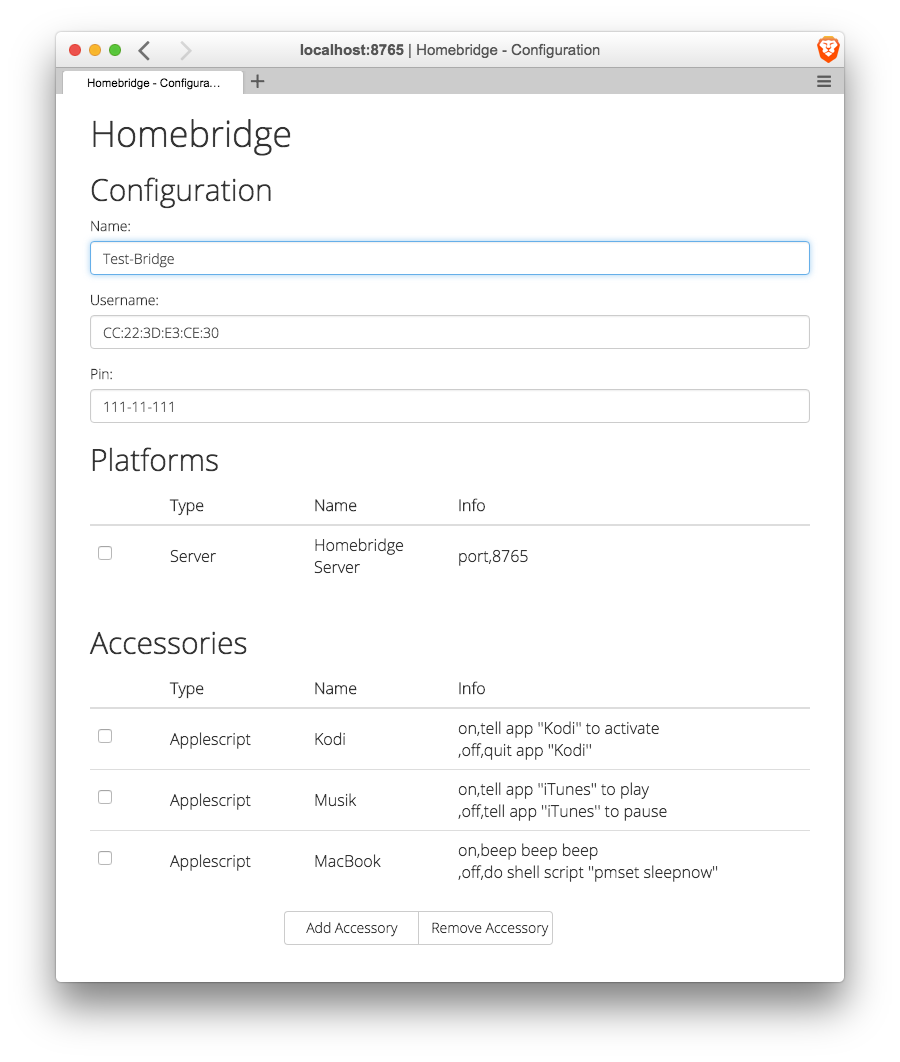
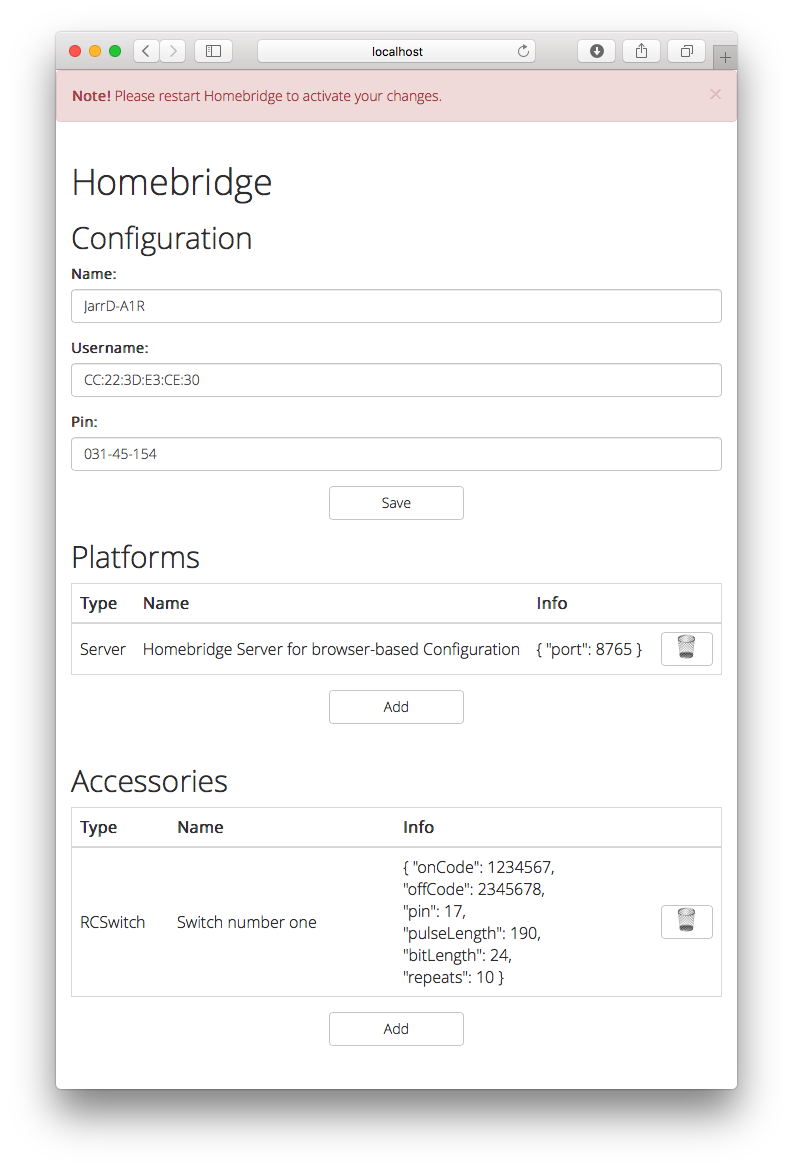
Added ability to add accessories and platforms, Fixes #1

diff --git a/index.js b/index.js
@@ -15,10 +15,10 @@ function Server(log, config) {
     var http = require('http');
 
     // ... extract the platforms JSON-object and instantiate string value ...
-    var platformsJSON = "";
+    var platformsJSON = {};
     var platforms = "";
     // ... extract the accessories JSON-object and instantiate string value...
-    var accessoriesJSON = "";
+    var accessoriesJSON = {};
     var accessories = "";
 
     // Prepare cosmetics for the site
@@ -26,23 +26,22 @@ function Server(log, config) {
     // - fontface with Apple-like Open Sans
     // - general header with responsive design
     // - JS with Twitter bootstrap
-    var bootstrap = "<link rel='stylesheet' href='//maxcdn.bootstrapcdn.com/bootstrap/latest/css/bootstrap.min.css'>";
+    var bootstrap = "<link rel='stylesheet' href='//maxcdn.bootstrapcdn.com/bootstrap/latest/css/bootstrap.min.css'>"
+    /* + "<link href='//cdnjs.cloudflare.com/ajax/libs/x-editable/1.5.0/bootstrap3-editable/css/bootstrap-editable.css' rel='stylesheet'/>"*/;
     var font = "<link href='https://fonts.googleapis.com/css?family=Open+Sans:300' rel='stylesheet' type='text/css'>";
     var style = "<style>h1, h2, h3, h4, h5, h6 {font-family: 'Open Sans', sans-serif;}p, div {font-family: 'Open Sans', sans-serif;} input[type='radio'], input[type='checkbox'] {line-height: normal; margin: 0;}</style>"
     var header = "<html><meta name='viewport' content='width=device-width, initial-scale=1, maximum-scale=1, user-scalable=no'><head><title>Homebridge - Configuration</title>" + bootstrap + font + style + "</head>";
-    var footer = "<script defer='defer' src='//maxcdn.bootstrapcdn.com/bootstrap/latest/js/bootstrap.min.js'></script></body></html>";
+    var footer = "<script defer='defer' src='//maxcdn.bootstrapcdn.com/bootstrap/latest/js/bootstrap.min.js'></script></body></html>"
+    /* + "<script src='//cdnjs.cloudflare.com/ajax/libs/x-editable/1.5.0/bootstrap3-editable/js/bootstrap-editable.min.js'></script>"
+     + "<script> $(document).ready(function() { $.fn.editable.defaults.mode = 'popup';  $('#username').editable(); }); </script>"*/;
 
-    // Prepare the html-markup as string for the presented tables
-    // - tables are responsive and glow when hovered
-    // - present Type, Name and additional Info
-    // - content is added later by concatenating table1 + 'content' + table2
     var table1 = (function() {/* 
             <div class="table-responsive"> 
               <table class="table table-hover">
                 <thead>
                   <tr>
-                    <th width='10%'>Type</th>
-                    <th width='40%'>Name</th>
+                    <th width='15%'>Type</th>
+                    <th width='35%'>Name</th>
                     <th width='40%'>Info</th>
                     <th width='10%'></th>
                   </tr>
@@ -79,7 +78,7 @@ function Server(log, config) {
                 if (req.method == 'POST') {
 
                     req.on('data', function(chunk) {
-                        receivedData = chunk.toString();
+                        var receivedData = chunk.toString();
                         console.log("[Homebridge-Server] received body data: " + receivedData);
                         var arr = receivedData.split("&");
                         configJSON.bridge.name = arr[0].replace('bridgeName=','');
@@ -96,14 +95,44 @@ function Server(log, config) {
 
                 break;
             case '/addPlatform':
-                printAddPlatformPage(res);
+                printAddPage(res, "Platform");
                 break;
             case '/addAccessory':
-                printAddAccessoryPage(res);
+                printAddPage(res, "Accessory");
                 break;
             case '/savePlatformSettings':
+                if (req.method == 'POST') {
+                    req.on('data', function(chunk) {
+                        var receivedData = decypherText(chunk).replace('PlatformToAdd=','');
+                            configJSON.platforms.push(JSON.parse(receivedData));
+                            if(configJSON.platforms.length == 1) {
+                                configJSON.platforms = JSON.parse(JSON.stringify(configJSON.platforms).replace('[,','['));
+                            }
+                            saveConfig(res);
+                            console.log("[Homebridge-Server] Saved platform " + JSON.parse(receivedData).name + ".");
+                    });
+                    req.on('end', function(chunk) { });
+
+                } else {
+                    console.log("[Homebridge-Server] [405] " + req.method + " to " + req.url);
+                }
                 break;
             case '/saveAccessorySettings':
+                if (req.method == 'POST') {
+                    req.on('data', function(chunk) {
+                        var receivedData = decypherText(chunk).replace('AccessoryToAdd=','');
+                            configJSON.accessories.push(JSON.parse(receivedData));
+                            if(configJSON.accessories.length == 1) {
+                                configJSON.accessories = JSON.parse(JSON.stringify(configJSON.accessories).replace('[,','['));
+                            }
+                            saveConfig(res);
+                            console.log("[Homebridge-Server] Saved accessory " + JSON.parse(receivedData).name + ".");
+                    });
+                    req.on('end', function(chunk) { });
+
+                } else {
+                    console.log("[Homebridge-Server] [405] " + req.method + " to " + req.url);
+                }
                 break;
             default:
                 url = req.url;
@@ -112,109 +141,111 @@ function Server(log, config) {
                     if (object.indexOf('Platform') !== -1) {
                         platform = object.replace('Platform', '');
                         delete configJSON.platforms[platform];
-                        platformsJSON = configJSON.platforms;
+                        console.log("[Homebridge-Server] Removed platform " + platform + ".");
                     } else if (object.indexOf('Accessory') !== -1) {
                         accessory = object.replace('Accessory', '');
                         delete configJSON.accessories[accessory];
-                        accessoriesJSON = configJSON.accessories;
+                        console.log("[Homebridge-Server] Removed accessory " + accessory + ".");
                     }
                     saveConfig(res);
-                    console.log("[Homebridge-Server] Saved platform and accessory settings.");
                 }
         };
     }
 
-    function prepareConfig() {
-        // Prepare the platforms for html-markup
-        // - introduces html-table-cell
-        // - adds the info from platform JSON-object
-        // - strips the JSON-identifiers
-        // - adds a checkbox as first table-cell to enable row-selection
-        platformsJSON = configJSON.platforms;
-        platforms = "";
-        for (var id_platform in platformsJSON) {
-            var platform = platformsJSON[id_platform];
-            platforms = platforms + "<tr><td style='vertical-align:middle;'>";
-            platforms = platforms + platform.platform + "</td><td style='vertical-align:middle;'>";
-            platforms = platforms + platform.name + "</td><td style='vertical-align:middle;'>";
-            // FIXME
-            var tempArray = [];
-            for (var element_platform in platform) {
-                tempArray.push(element_platform);
-                tempArray.push(platform[element_platform] + '<br>');
-            }
-            tempArray.splice(tempArray.indexOf('name'), 2);
-            tempArray.splice(tempArray.indexOf('platform'), 2);
-            platforms = platforms + tempArray + "</td>";
-            platforms = platforms + "</td><td style='vertical-align:middle;'><a href='/removePlatform" + id_platform + "' class='btn btn-default center-block' style='width:30px'>-</a>" + "</td><td style='vertical-align:middle;'></td></tr>";
-        }
-
-        // Prepare the accessories for html-markup
-        // - introduces html-table-cell
-        // - adds the info from platform JSON-object
-        // - strips the JSON-identifiers
-        // - adds a checkbox as first table-cell to enable row-selection
-        accessoriesJSON = configJSON.accessories;
-        accessories = "";
-        for (var id_accessory in accessoriesJSON) {
-            var accessory = accessoriesJSON[id_accessory];
-            accessories = accessories + "<tr><td style='vertical-align:middle;'>";
-            accessories = accessories + accessory.accessory + "</td><td style='vertical-align:middle;'>";
-            accessories = accessories + accessory.name + "</td><td style='vertical-align:middle;'>";
-            // FIXME
-            var tempArray = [];
-            for (var element_accessory in accessory) {
-                tempArray.push(element_accessory);
-                tempArray.push(accessory[element_accessory] + '<br>');
-            }
-            tempArray.splice(tempArray.indexOf('name'), 2);
-            tempArray.splice(tempArray.indexOf('accessory'), 2);
-            accessories = accessories + tempArray + "</td>";
-            accessories = accessories + "</td><td style='vertical-align:middle;'><a href='/removePlatform" + id_accessory + "' class='btn btn-default center-block' style='width:135px'>Remove</a>" + "</td><td style='vertical-align:middle;'></td></tr>";
-        }
-
-        // Prepares the html-markup for the bridge parameters as forms
-        bridgeName = "<div class='form-group'><label for='homebridgename'>Name:</label><input type='text' class='form-control' name='bridgeName' value='" + configJSON.bridge.name + "'></div>";
-        bridgeUsername = "<div class='form-group'><label for='username'>Username:</label><input type='text' class='form-control' name='bridgeUsername' value='" + configJSON.bridge.username + "'></div>";
-        bridgePin = "<div class='form-group'><label for='pin'>Pin:</label><input type='text' class='form-control' name='bridgePin' value='" + configJSON.bridge.pin + "'></div>";
+    function decypherText(chunk) {
+        var receivedData = chunk.toString()
+         .replace(/\%7B\%0D\%0A/g,'{')
+         .replace(/\%0D\%0A/g,'')
+         .replace(/\%2C/g,',')
+         .replace(/\%7D/g,'}')
+         .replace(/\%3A/g,':')
+         .replace(/\%22/g,'"')
+         .replace(/\+/g,' ')
+         .replace(/\+\+/g,'')
+         .replace(/\%2F/g,'/')
+         .replace(/\%3C/g,'<')
+         .replace(/\%3E/g,'>')
+         .replace(/\%5B/g,'[')
+         .replace(/\%5D/g,']');
+        return receivedData;
     }
 
     function saveConfig(res) {
         var newConfig = JSON.stringify(configJSON)
-        newConfig = newConfig.replace(',null', '');
-        newConfig = newConfig.replace('null,', '');
-        newConfig = newConfig.replace('null', '');
-        fs.writeFile(process.argv[process.argv.indexOf('-U') + 1] + '/config.json', newConfig, "utf8", savedConfig(res));
+         .replace(/\[,/g, '[')
+         .replace(/,null/g, '')
+         .replace(/null,/g, '')
+         .replace(/null/g, '')
+         .replace(/,,/g, ',')
+         .replace(/,\]/g, ']');
+        newConfig = JSON.stringify(JSON.parse(newConfig), null, 4);
+        fs.writeFile(process.argv[process.argv.indexOf('-U') + 1] + '/config.json', newConfig, "utf8", reloadConfig(res));
     }
 
-    function savedConfig(res) {
-      res.write(header);
-      res.write("<div class='alert alert-danger alert-dismissible fade in out' style='position: absolute; top: 20px; right: 20px;'><a href='/' class='close' data-dismiss='alert'>&times;</a><strong>Note!</strong> Please restart Homebridge to activate your changes.</div>");
-      prepareConfig();
-      printMainPage(res);
+    function reloadConfig(res) {
+        configJSON = require(process.argv[process.argv.indexOf('-U') + 1] + '/config.json');
+        res.write(header);
+        res.write("<div class='alert alert-danger alert-dismissible fade in out'><a href='/' class='close' data-dismiss='alert'>&times;</a><strong>Note!</strong> Please restart Homebridge to activate your changes.</div>");
+        prepareConfig();
+        printMainPage(res);
     }
 
-    function printAddPlatformPage(res) {
+    function prepareConfig() {
+        bridgeName = "<div class='form-group'><label for='homebridgename'>Name:</label><input type='text' class='form-control' name='bridgeName' value='" + configJSON.bridge.name + "'></div>";
+        bridgeUsername = "<div class='form-group'><label for='username'>Username:</label><input type='text' class='form-control' name='bridgeUsername' value='" + configJSON.bridge.username + "'></div>";
+        bridgePin = "<div class='form-group'><label for='pin'>Pin:</label><input type='text' class='form-control' name='bridgePin' value='" + configJSON.bridge.pin + "'></div>";
+
+        platformsJSON = configJSON.platforms;
+        platforms = "";
+        accessoriesJSON = configJSON.accessories;
+        accessories = "";
+
+        const wastebasket = "&#128465";
+        const pen = "&#9997";
+        var symbolToPresent = wastebasket;
+
+        for (var id_platform in platformsJSON) {
+            var platformNoTypeNoName = JSON.parse(JSON.stringify(platformsJSON[id_platform]));
+            delete platformNoTypeNoName.platform;
+            delete platformNoTypeNoName.name;
+            var platform = platformsJSON[id_platform];
+            platforms = platforms + "<tr>"
+             + "<td style='vertical-align:middle;'>" + platform.platform + "</td>"
+              + "<td style='vertical-align:middle;'>" + platform.name + "</td>"
+               + "<td style='vertical-align:middle;'>" + (JSON.stringify(platformNoTypeNoName, null, ' ')).replace(/,/g,',<br>') + "</td>"
+                + "<td style='vertical-align:middle;'><a href='/removePlatform" + id_platform + "' class='btn btn-default center-block' style='height: 34px; line-height: 16px; vertical-align:middle;outline:none !important;'><span style='font-size:25px;''>" + symbolToPresent + ";</span></a>"
+                 + "</td></tr>";
+        }
+
+        for (var id_accessory in accessoriesJSON) {
+            var accessoryNoTypeNoName = JSON.parse(JSON.stringify(accessoriesJSON[id_accessory]));
+            delete accessoryNoTypeNoName.accessory;
+            delete accessoryNoTypeNoName.name;
+            var accessory = accessoriesJSON[id_accessory];
+            accessories = accessories + "<tr>"
+             + "<td style='vertical-align:middle;'>" + accessory.accessory + "</td>"
+              + "<td style='vertical-align:middle;'>" + accessory.name + "</td>"
+               + "<td style='vertical-align:middle;'>" + (JSON.stringify(accessoryNoTypeNoName, null, ' ')).replace(/,/g,',<br>') + "</td>"
+                + "<td style='vertical-align:middle;'><a href='/removeAccessory" + id_accessory + "' class='btn btn-default center-block' style='height: 34px; line-height: 16px; vertical-align:middle;outline:none !important;'><span style='font-size:25px;''>" + symbolToPresent + ";</span></a>"
+                 + "</td></tr>";
+        }
+    }
+
+    function printAddPage(res, type) {
         res.write(header);
         res.write("<div class='container'>");
-        res.write("<body><h2>Add Platform</h2>");
+        res.write("<body><h2>Add " + type + "</h2>");
 
-        res.write("<form enctype='application/x-www-form-urlencoded' action='/savePlatformSettings' method='post'>")
-        res.write("<input type='submit' class='btn btn-default center-block' style='width:135px' value='Add' />");
-        res.write("</form>");
-
+        res.write("<form enctype='application/x-www-form-urlencoded' action='/save" + type + "Settings' method='post'>")
+        res.write("<textarea class='form-control' type='text' name='" + type + "ToAdd' rows='10' placeholder='{ \"" + type  + "\": \"test\" }' required></textarea>");
         res.write("<br>");
+        res.write("<div class='row'>");
+        res.write("<div class='col-xs-offset-1 col-sm-offset-1 col-md-offset-2 col-xs-10 col-sm-9 col-md-8 text-center'>");
+        res.write("<div class='btn-group' data-toggle='buttons'>");
+        res.write("<input type='submit' class='btn btn-default center-block' value='Save' style='width:135px' />");
+        res.write("<a href='/' class='btn btn-default center-block' style='width:135px'>Cancel</a>");
         res.write("</div>");
-        res.end(footer);
-    }
-
-    function printAddAccessoryPage(res) {
-        res.write(header);
-        res.write("<div class='container'>");
-        res.write("<body><h2>Add Accessory</h2>");
-
-        res.write("<form enctype='application/x-www-form-urlencoded' action='/saveAccessorySettings' method='post'>")
-        res.write("<input type='submit' class='btn btn-default center-block' style='width:135px' value='Add' />");
+        res.write("</div>");
         res.write("</form>");
 
         res.write("<br>");
@@ -239,7 +270,7 @@ function Server(log, config) {
         } else {
             res.write("No platforms installed or configured!");
         }
-        res.write("<br><a href='/addPlatform' id='Add' name='AddPlatform' class='btn btn-default center-block' style='width:135px'>New Platform</a><br>");
+        res.write("<a href='/addPlatform' name='AddPlatform' class='btn btn-default center-block' style='width:135px'>Add</a><br>");
 
         res.write("<h2>Accessories</h2>");
         if (0 < Object.keys(accessoriesJSON).length) {
@@ -247,16 +278,13 @@ function Server(log, config) {
         } else {
             res.write("No accessories installed or configured!");
         }
-        res.write("<br><a href='/addAccessory' id='Add' name='AddAccessory' class='btn btn-default center-block' style='width:135px'>New Accessory</a><br>");
+        res.write("<a href='/addAccessory' name='AddAccessory' class='btn btn-default center-block' style='width:135px'>Add</a><br>");
 
-        res.write("<br>");
         res.write("</div>");
         res.end(footer);
     }
 
-    //Lets start our server
     server.listen(self.config.port, function() {
-        //Callback triggered when server is successfully listening. Hurray!
         require('dns').lookup(require('os').hostname(), function(err, add, fam) {
             console.log("[Homebridge-Server] is listening on: http://%s:%s", add, self.config.port);
         })
